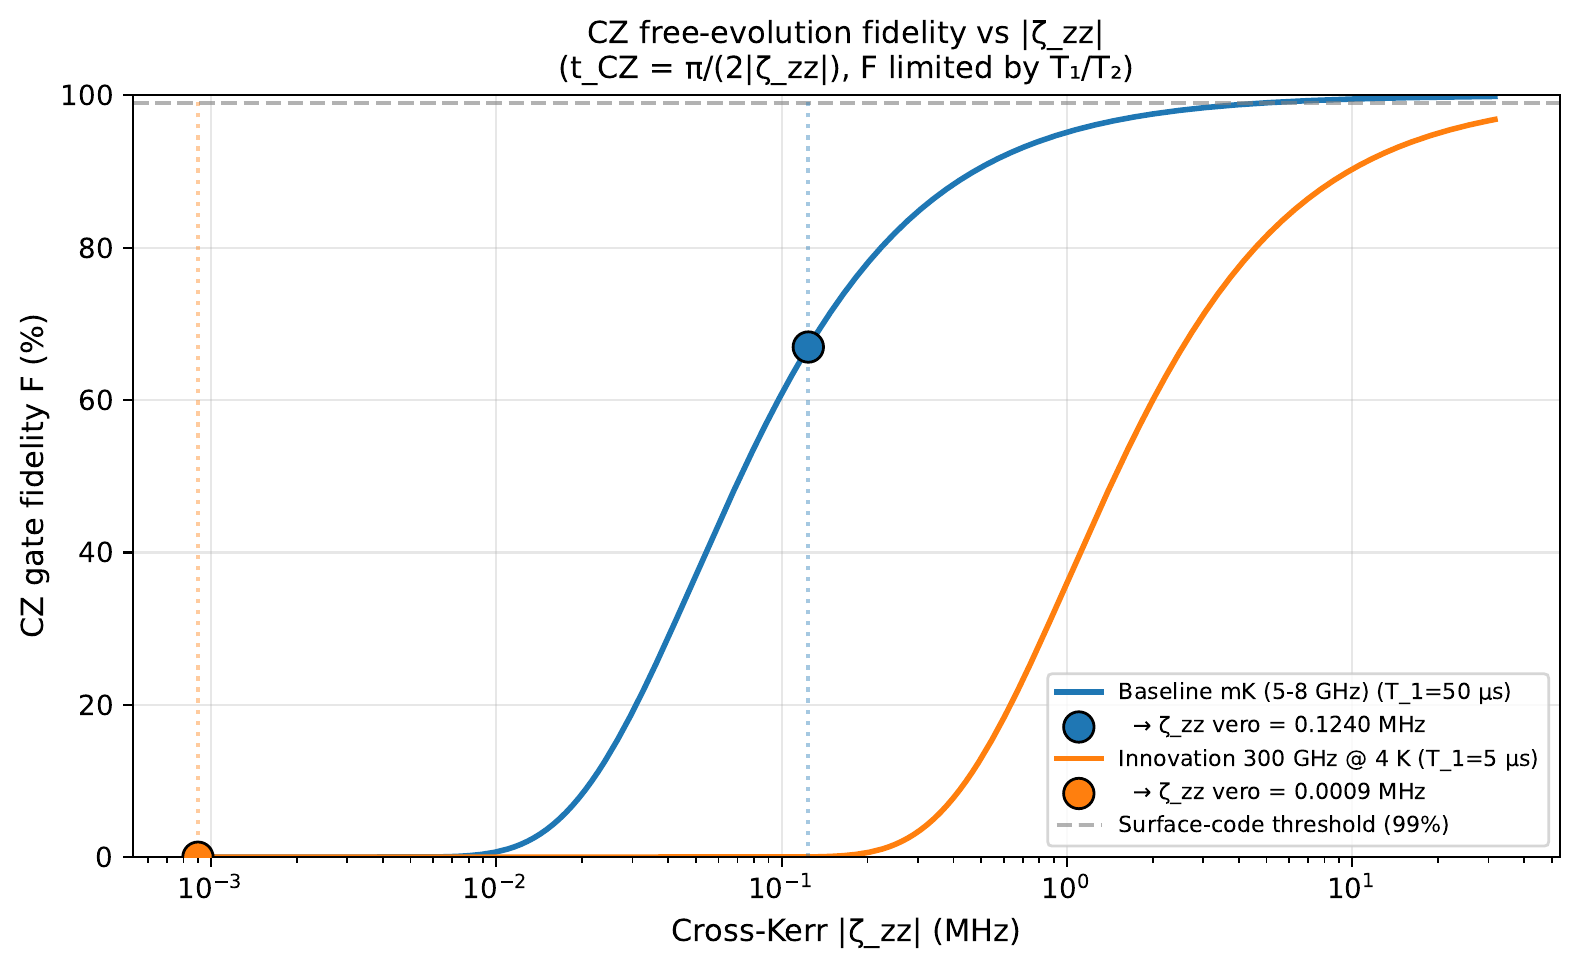
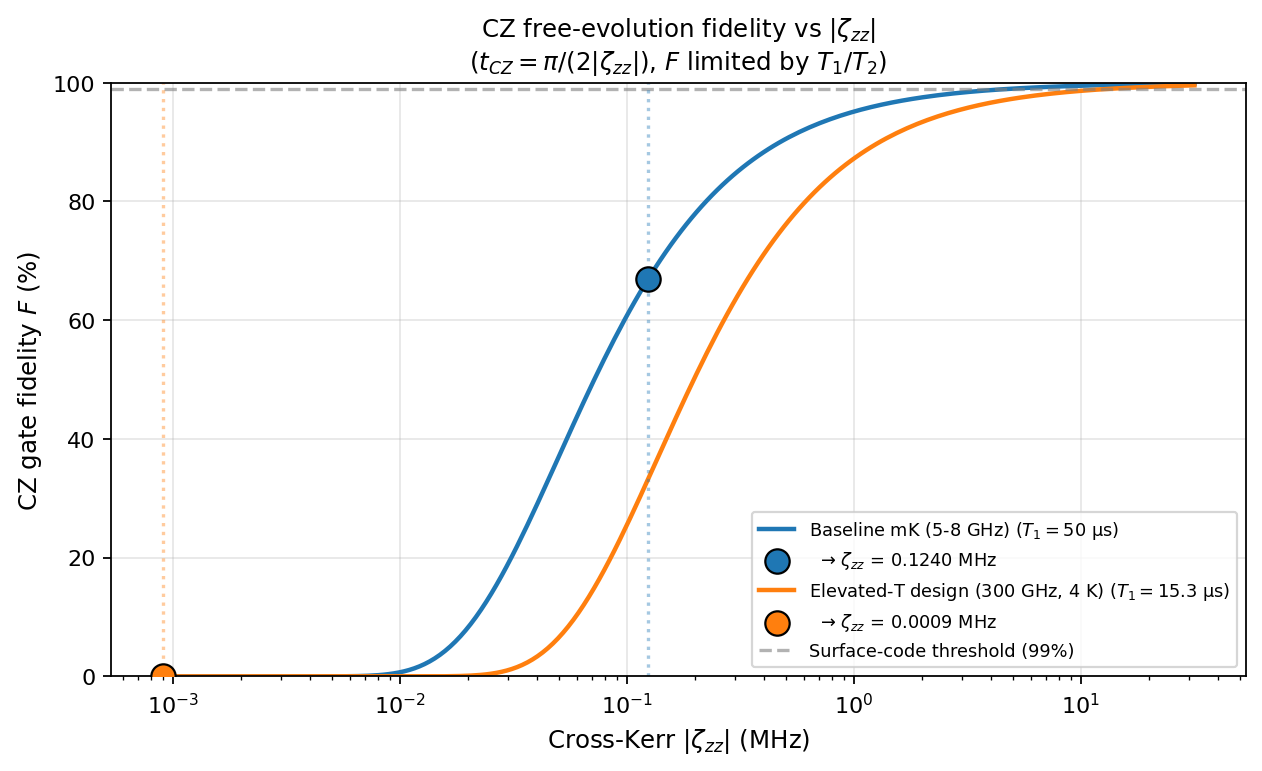
Cap.2 figures audit: fix language, residuals, layout, caption-figure mismatch
Five issues found during a fresh-read audit of Cap.2 figures, all
fixed.

Fig 2.3 (CZ_freevolution_fidelity_vs_zeta.png) — three problems:
  - Italian word 'vero' in the legend
  - 'Innovation 300 GHz @ 4 K' (pitch-style residual)
  - T_1 = 5 us was an outdated value from a pre-revision draft;
    the current Cap.2 budget (Tab 2.5) gives total T_1 = 15.3 us
    at 300 GHz / 4 K.
Regenerated with English-only labels, 'Elevated-T design (300 GHz,
4 K)' and T_1 = 15.3 us / T_2 = 13.2 us consistent with the thesis.

Fig 2.4 (qubit_detuning_tradeoff_baseline.png) — entirely in Italian
plus residual HEATS-Q in the suptitle:
  - 'Trade-off di Delta_q per HEATS-Q baseline'
  - 'Cross-Kerr statico parassita (piccolo è meglio)'
  - 'target < 200 ns / marginale 500 ns'
  - 'Fidelity attesa / soglia 99% / soglia 99.9%'
Regenerated with English labels and 'Trade-off of Delta_q for the
baseline configuration', dropping HEATS-Q. Numerical content
unchanged (J, zeta_zz, selectivity, crosstalk, F_CR all the same).

Fig 2.6 (fig2_energy_levels.png) — most of the figure was empty
space:
  - Y-axis from 0 to 7 GHz, with the three relevant levels at
    5.2, 5.8, 6.5 GHz all in the upper ~1.5 GHz of the panel.
Regenerated with y-axis zoomed to [4.85, 6.7] GHz so the levels
and detuning arrows (Delta_1 = -0.7 GHz, Delta_2 = -1.3 GHz) are
visible at thesis-page size. Also added the ground-state line at
the bottom with the qubit-excitation arrows that were missing.
[…]

diff --git a/chapters/quantum_hw.tex b/chapters/quantum_hw.tex
@@ -2572,7 +2572,7 @@ T_{2,\text{echo}} \sim 2T_2 \approx 30 \text{ $\mu$s}
 
 \subsection{Temperature Dependence}
 
-Figure~\ref{fig:decoherence}(g) shows CNOT fidelity versus temperature. Key observations:
+Figure~\ref{fig:decoherence}(e) shows CNOT fidelity versus temperature. Key observations:
 \begin{table}[h]
 \centering
 \begin{tabular}{@{}cccl@{}}
@@ -2596,14 +2596,12 @@ The optimal operating window is 3--4 K, balancing thermal errors against refrige
 \begin{figure}[p]
 \centering
 \includegraphics[width=0.95\textwidth]{chapters/qh_figures/CORRECTED_fig3_decoherence_fidelity.png}
-\caption{\textbf{Comprehensive Decoherence Analysis.}
-\textbf{(a)} $T_1$ versus frequency for different loss mechanisms. Dielectric loss (red) scales as $1/\omega$. Radiative loss (dashed dark red) scales as $1/\omega^2$ when unshielded—catastrophic at 300 GHz! With 3D cavity providing 60 dB electromagnetic shielding (cyan), radiative loss is manageable. Quasiparticle tunneling (green) is frequency-independent—a key advantage at 300 GHz. Operating points: baseline 5.8 GHz/20mK (green circle) and innovation 300 GHz/4K (orange star).
-\textbf{(b)} $T_1$ contribution breakdown at 300 GHz showing relative importance of each mechanism. Quasiparticle (41\%) and TLS (41\%) dominate, with smaller contributions from dielectric, radiative, and Purcell decay.
-\textbf{(c)} $T_2$ versus $T_1$ for different pure dephasing times $T_\phi$. Black dashed line shows ideal limit $T_2 = 2T_1$ (no pure dephasing). Current projection (orange star) shows $T_2 \approx 0.74 T_1$, indicating manageable pure dephasing.
-\textbf{(d)} Quasiparticle $T_1$ versus temperature. At 4 K (orange line), thermal activation increases quasiparticle density compared to baseline 20 mK (green line), but effect is moderate due to large superconducting gap.
-\textbf{(e)} Single-qubit gate error versus $T_2$ for 20 ns gates. Current $T_2 = 13.2$ $\mu$s (orange bar) gives error $< 0.2\%$. Green reference line shows 0.1\% target.
-\textbf{(f)} CNOT error budget showing contributions from each source: decoherence (0.58\%), thermal excitation (1.41\%), leakage to higher levels (0.01\%), and control errors (0.10\%). Total error 2.1\% corresponds to fidelity 97.9\%. Red dashed line indicates 2\% threshold for error correction.
-\textbf{(g)} CNOT fidelity versus temperature. Optimal operating window (green shaded, 3--5 K) balances thermal errors against refrigeration complexity. At target 4 K (green star), fidelity is 97.3\%, near the 98\% threshold (red line). Green and yellow bands indicate above-threshold and near-threshold regions.}
+\caption{\textbf{Comprehensive decoherence analysis.}
+\textbf{(a)} $T_1$ versus frequency for the different loss mechanisms considered. Dielectric loss (red, solid) scales as $1/\omega$. Radiative loss is catastrophic at $300$~GHz when unshielded (dark red, dashed) but is brought back into the manageable range by a 3D cavity providing $\sim 60$~dB of electromagnetic shielding (cyan). Quasiparticle tunneling (green) is frequency-independent in the regime considered here, which is the key advantage at $300$~GHz. The two operating points overlaid are the baseline ($5.8$~GHz, $20$~mK, green circle) and the elevated-temperature point ($300$~GHz, $4$~K, orange star).
+\textbf{(b)} $T_1$ contribution breakdown at the elevated-temperature operating point ($300$~GHz, $4$~K), expressed as relative contribution to $1/T_1$. Quasiparticle ($31.6\%$) and TLS ($30.7\%$) are the two dominant channels; dielectric ($28.9\%$), radiative ($4.1\%$) and Purcell ($4.8\%$) play smaller roles. The total $T_1 = 15.3~\mu$s reported in the box is the sum over channels at $4$~K.
+\textbf{(c)} Single-qubit and CNOT gate fidelity bars at the elevated-temperature point. The single-qubit gate ($20$~ns) reaches $F = 99.81\%$, comfortably above the $98\%$ fault-tolerance threshold (red dashed line). The CNOT gate ($168$~ns) reaches $F = 95.95\%$, below the threshold, which is the central engineering challenge addressed by the prerequisites P1--P6 in Sec.~\ref{sec:fidelity}.
+\textbf{(d)} CNOT error budget at the elevated-temperature operating point, with the four contributions decomposed: decoherence ($2.54\%$), thermal excitation ($1.41\%$), single-qubit control ($0.10\%$), and leakage to higher levels ($0.00\%$). Their sum, $4.05\%$, gives the total CNOT error and matches the $1 - F = 4.05\%$ from panel~(c). The red dashed line marks the $2\%$ target for surface-code fault tolerance.
+\textbf{(e)} CNOT fidelity versus operating temperature. At the design point of $4$~K (green star), the projected fidelity is $\simeq 96\%$, against the $98\%$ surface-code threshold (red dashed line). The yellow band marks the operational window in which the fidelity is close to threshold, the green band marks the above-threshold region; the figure makes explicit that the cryogenic working point and the threshold meet only with the additional gains from the technological prerequisites of Sec.~\ref{sec:fidelity}.}
 \label{fig:decoherence}
 \end{figure}
 
@@ -2699,7 +2697,7 @@ therefore reads:
 
 \textbf{\textcolor{correction}{Gap to 98\% threshold: $-0.10\%$ (marginally below threshold)}}
 
-Figure~\ref{fig:decoherence}(f) shows the error budget breakdown.
+Figure~\ref{fig:decoherence}(d) shows the error budget breakdown.
 
 \subsubsection{Comparison with State-of-the-Art}
 
